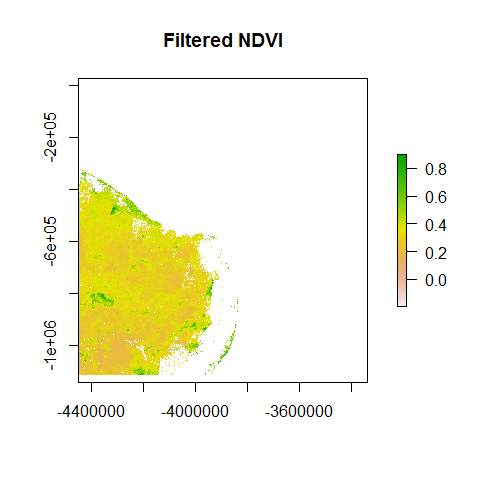
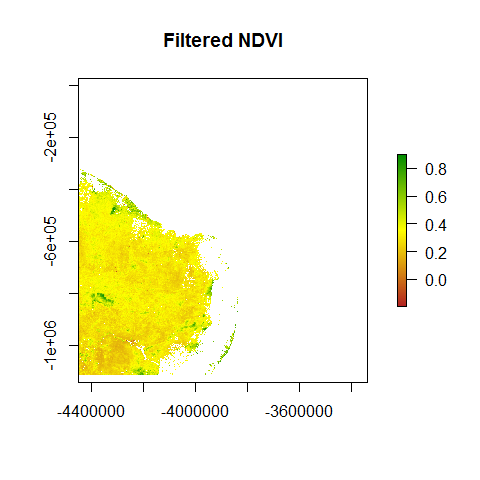
first commit

Changed region(s): [[0.1562, 0.3438, 0.4688, 0.7812], [0.8125, 0.375, 0.8438, 0.6562], [0.8125, 0.3125, 0.8438, 0.3438]]

diff --git a/README.md b/README.md
@@ -1,4 +1,4 @@
-LSTtools package main use
+LSTtools
 ================
 Richard Lemoine Rodriguez
 
@@ -118,7 +118,7 @@ data(mod13a1)
 
 # For NDVI MOD13Q1 product, filtering pixels with usefulness <= 2 and view zenith angle <= 35
 v <- veg_filter(mod13a1, vi = "NDVI", rel = FALSE, usef = 2, angle = 35)
-plot(v[[1]], main = "Filtered NDVI")
+plot(v[[1]], col=rev(colorRampPalette(c("green4", "yellow", "firebrick"))(255)), main = "Filtered NDVI")
 ```
 
 ![](README_files/figure-gfm/unnamed-chunk-9-1.png)<!-- -->
